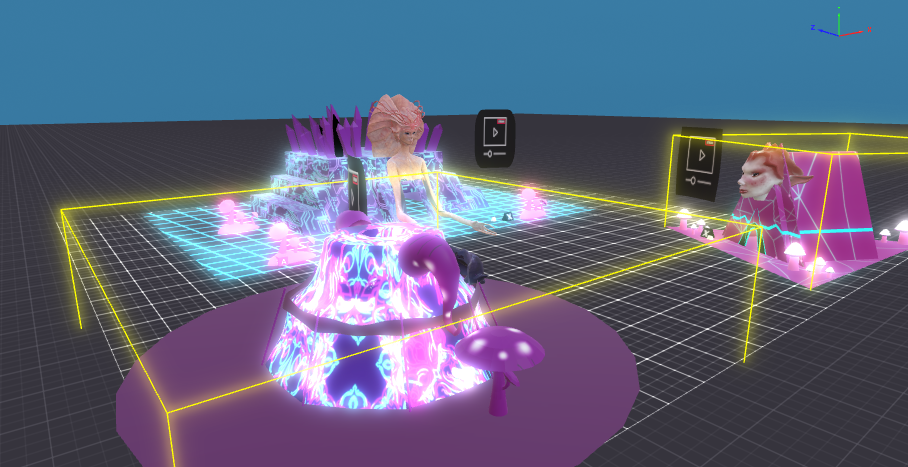
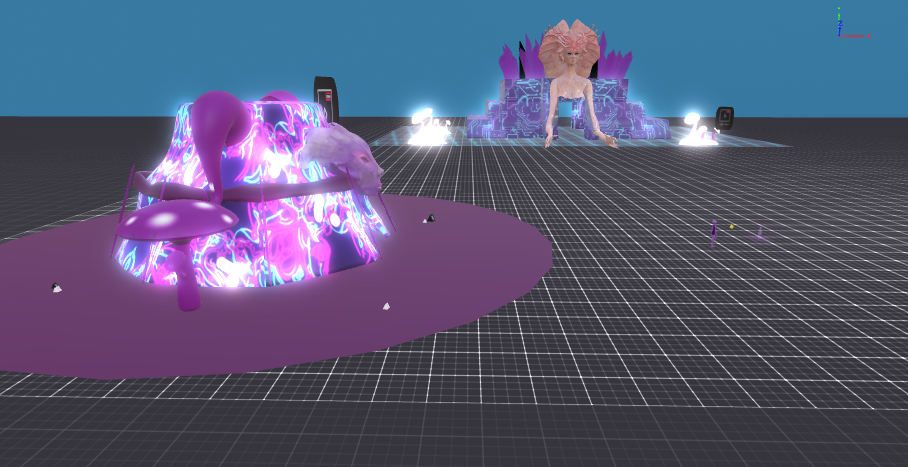
Adjust H101 dialogue layout and two-line message

diff --git a/src/h101.tsx b/src/h101.tsx
@@ -351,7 +351,7 @@ const UI = () => (
         uiTransform={{
           positionType: 'absolute',
           position: { top: '10%', left: '27%' },
-          width: 640,
+          width: 660,
           flexDirection: 'column',
           alignItems: 'center',
           padding: 20
@@ -368,10 +368,18 @@ const UI = () => (
           }}
         />
         <UiEntity
-          uiTransform={{ width: '100%', margin: { top: 6 } }}
+          uiTransform={{ width: '100%', height: 28, alignItems: 'center', justifyContent: 'center', margin: { top: 6 } }}
           uiText={{
-            value:
-              'Hello, interdimensional being\u2014it\u2019s great to meet you! Now, head to my Temple to unlock a level, then return to me to receive your esoteric advice.',
+            value: 'Hello, interdimensional being\u2014it\u2019s great to meet you!',
+            fontSize: 18,
+            color: Color4.create(1, 0.9, 0.95, 1),
+            textAlign: 'middle-center'
+          }}
+        />
+        <UiEntity
+          uiTransform={{ width: '100%', height: 56, alignItems: 'center', justifyContent: 'center', margin: { top: 4 } }}
+          uiText={{
+            value: 'Now, head to my Temple to unlock a level, then return to me to receive your esoteric advice.',
             fontSize: 18,
             color: Color4.create(1, 0.9, 0.95, 1),
             textAlign: 'middle-center'
